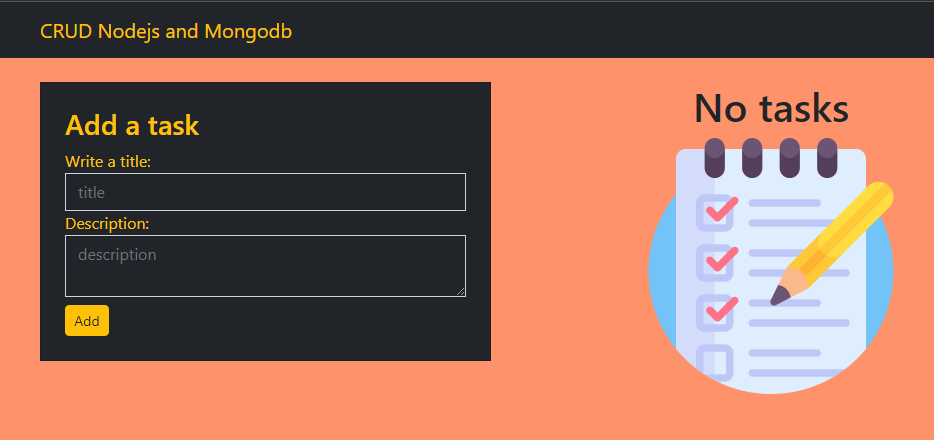
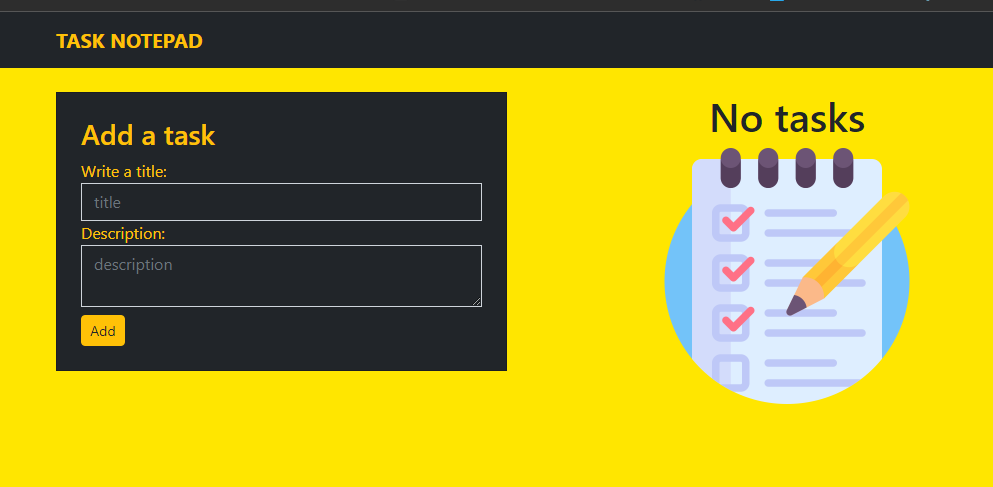
Se camiaron colores

diff --git a/src/public/css/main.css b/src/public/css/main.css
@@ -1,3 +1,4 @@
 body{
-    background-color: rgb(253, 146, 107);
+    background-color: rgb(255, 230, 0);
 };
+

diff --git a/README.md b/README.md
@@ -3,7 +3,7 @@
 <h1 align="center"><img src="./src/public/img/task.png"> Project: Task Notepad</h1>
 &nbsp;
 
----
+
 <p><img src="./src/public/img/no_task.png""></p>
 </div>
 &nbsp;
@@ -13,7 +13,7 @@
 
 
  <h3 align="center"> 💻Trabajo Práctico Final - Curso Full Stack Avanzado - UTN</h3>
-<h5 align="center">Task Notepad es una aplicación web que nos permite listar tareas, consultarlas, agregarlas, editarlas y eliminarlas.</h5>
+<h5 align="center">Task Notepad es una aplicación web que nos permite crear, leer, actualizar y borrar tareas.</h5>
 
 
 &nbsp;
@@ -29,21 +29,34 @@
 &nbsp;
 
 ---
+### ¿Qué programas necesitas tener instalados?
+<p>Para que funcione ésta aplicación necesitas tener instalado los siguientes programas: Git, Visual Studio Code, NodeJS y MongoDB.</p>
+&nbsp;
+
+---
 ### Enviroment variables
-Para que funcione ésta aplicación necesitas añadir las siguientes variables de entorno:
-MONGODB_URI 
-PORT
+<p>También puedes añadir las siguientes variables de entorno en el archivo .env:</p>
+<p>MONGODB_URI</p>
+<p>PORT</p>
+&nbsp;
+
+---
+### Instalación (Manual)
+<p>Primero necesitas abrir una terminal y ejecutar el comando “mongod” que arranca el servidor de mongodb, y la dejas abierta que corra.
+<p>Abres el programa Visual Studio Code, y ejecutas los siguientes comandos:</p>
+<p>git clone https://github.com/monicapajon/taskNotepad.git<p>
+<p>cd taskNotepad</p>
+<p>npm install</p>
+<p>npm run dev</p>
+
+<p>Abres el navegador y escribes: http://localhost:3000/, y listo, puedes empezar a usar la aplicación “Task Notepad”.</p>
 
 &nbsp;
 
 ---
-### El proyecto corre con "npm run dev" desde la consola. 
 
 
-&nbsp;
-
----
-<p>💪 Se han utilizado dependencias, frameworks y base de datos   aprendidos en éste curso, eligiendo NodeJS y Mongodb para ésta aplicación</p>
+<p>💪 Se han utilizado dependencias, frameworks y base de datos   aprendidos en éste curso, eligiendo NodeJS y Mongodb para ésta aplicación.</p>
 &nbsp;
 
 ---
@@ -51,22 +64,22 @@ PORT
 &nbsp;
 
 ``` 
-                                              📝 Contenido
+                             📝 Contenido
 ```
    
 &nbsp;
 
 <h3 align="center">Herramientas</h3>
-- [x] HTML, CSS, JavaScript, Node JS,Bootstrap, Express, Express-Handlebars, Mongoose, Morgan, Nodemon, Mongodb.-
+- [x] HTML, CSS, JavaScript, Node JS, Bootstrap, Express, Express-Handlebars, Mongoose, Morgan, Nodemon, Mongodb.
 
 
    
 &nbsp;
 
 <h3 align="center">🎛 Funcionalidades principales</h3>
-- [x] Se puede listar tareas, verlas, agregarlas, editarlas y eliminarlas.-
-- [x] Posee una columna en la cual la aplicación coloca automáticamente el número de tarea.-
-- [x] Además se le agregó un botón que permite seleccionar la opción "DONE" (tarea realizada) o "UNDONE" (tarea incompleta).- 
+- [x] Task Notepad es una aplicación web que nos permite crear, leer, actualizar y borrar tareas.
+- [x] Posee una columna en la cual la aplicación coloca automáticamente el número de tarea.
+- [x] Además se le agregó un botón que permite seleccionar la opción "DONE" (tarea realizada) o "UNDONE" (tarea incompleta). 
 &nbsp;
 
  
